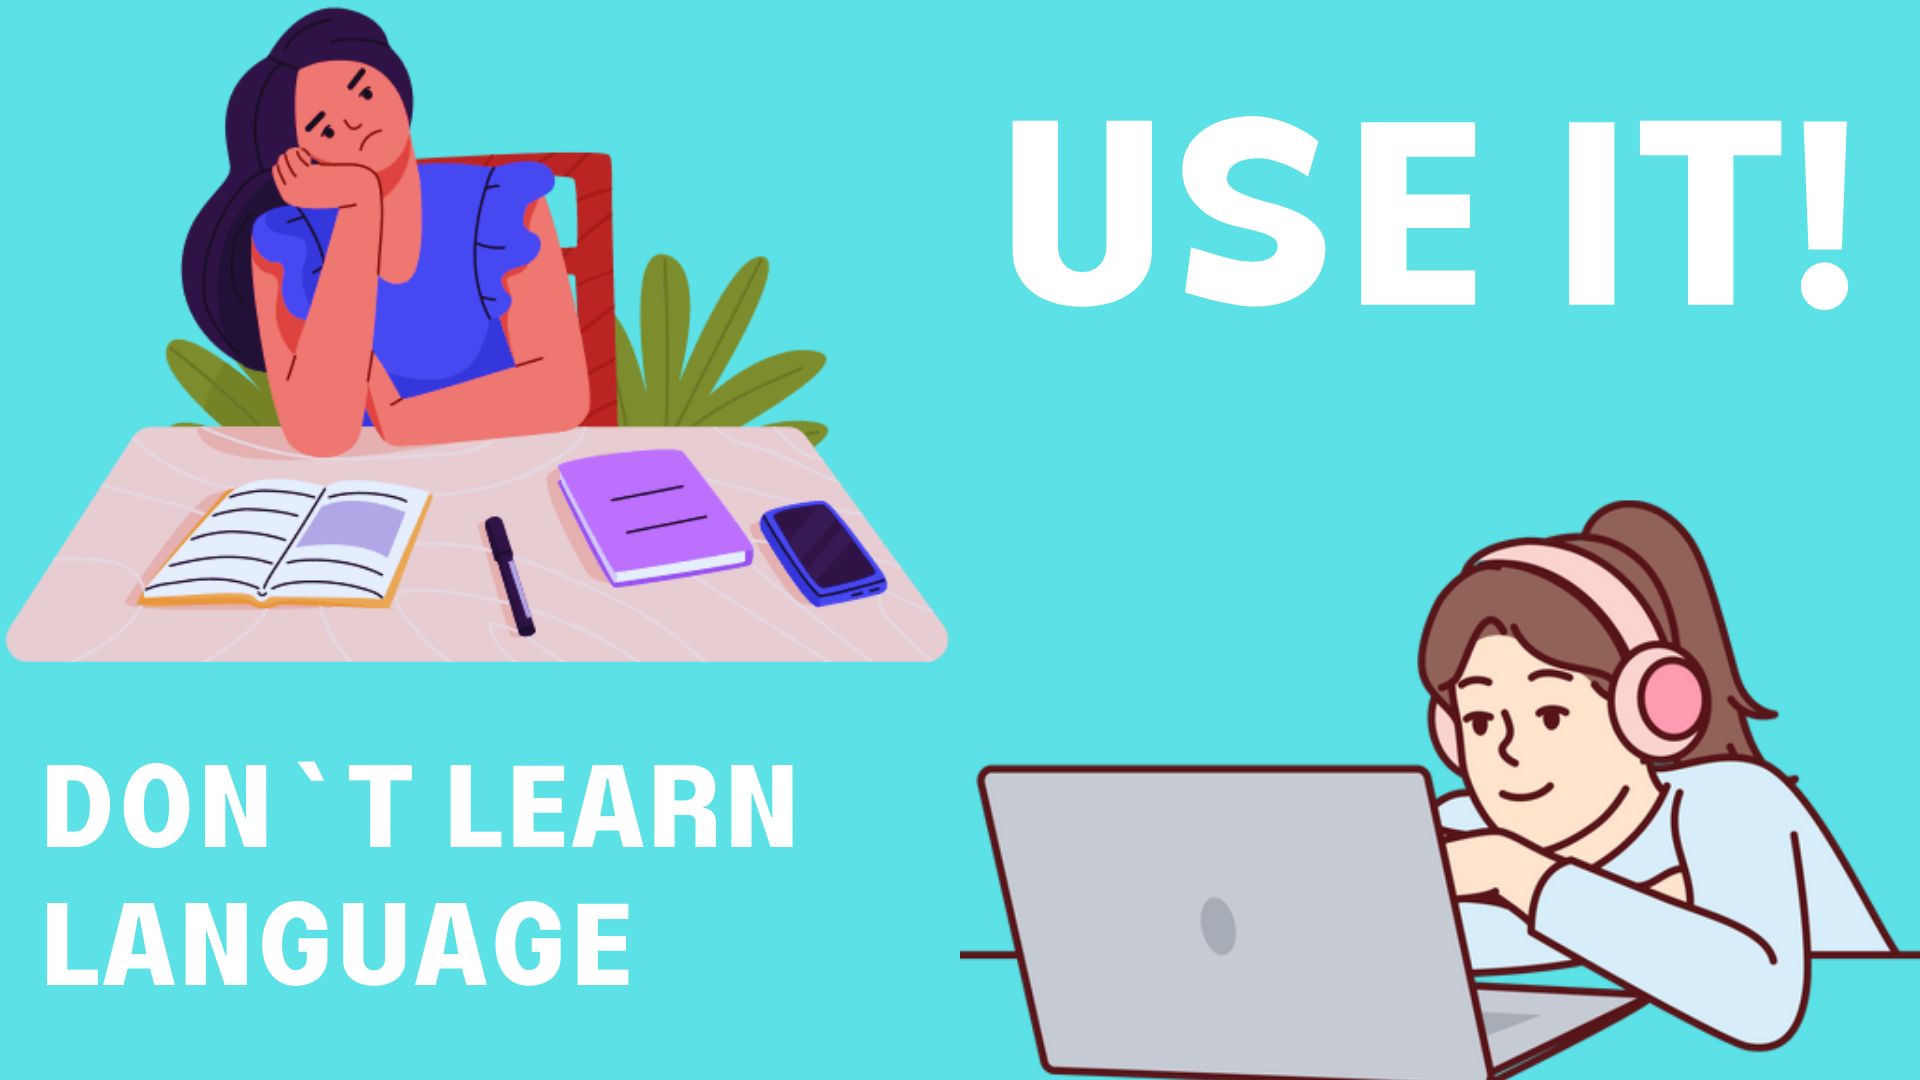
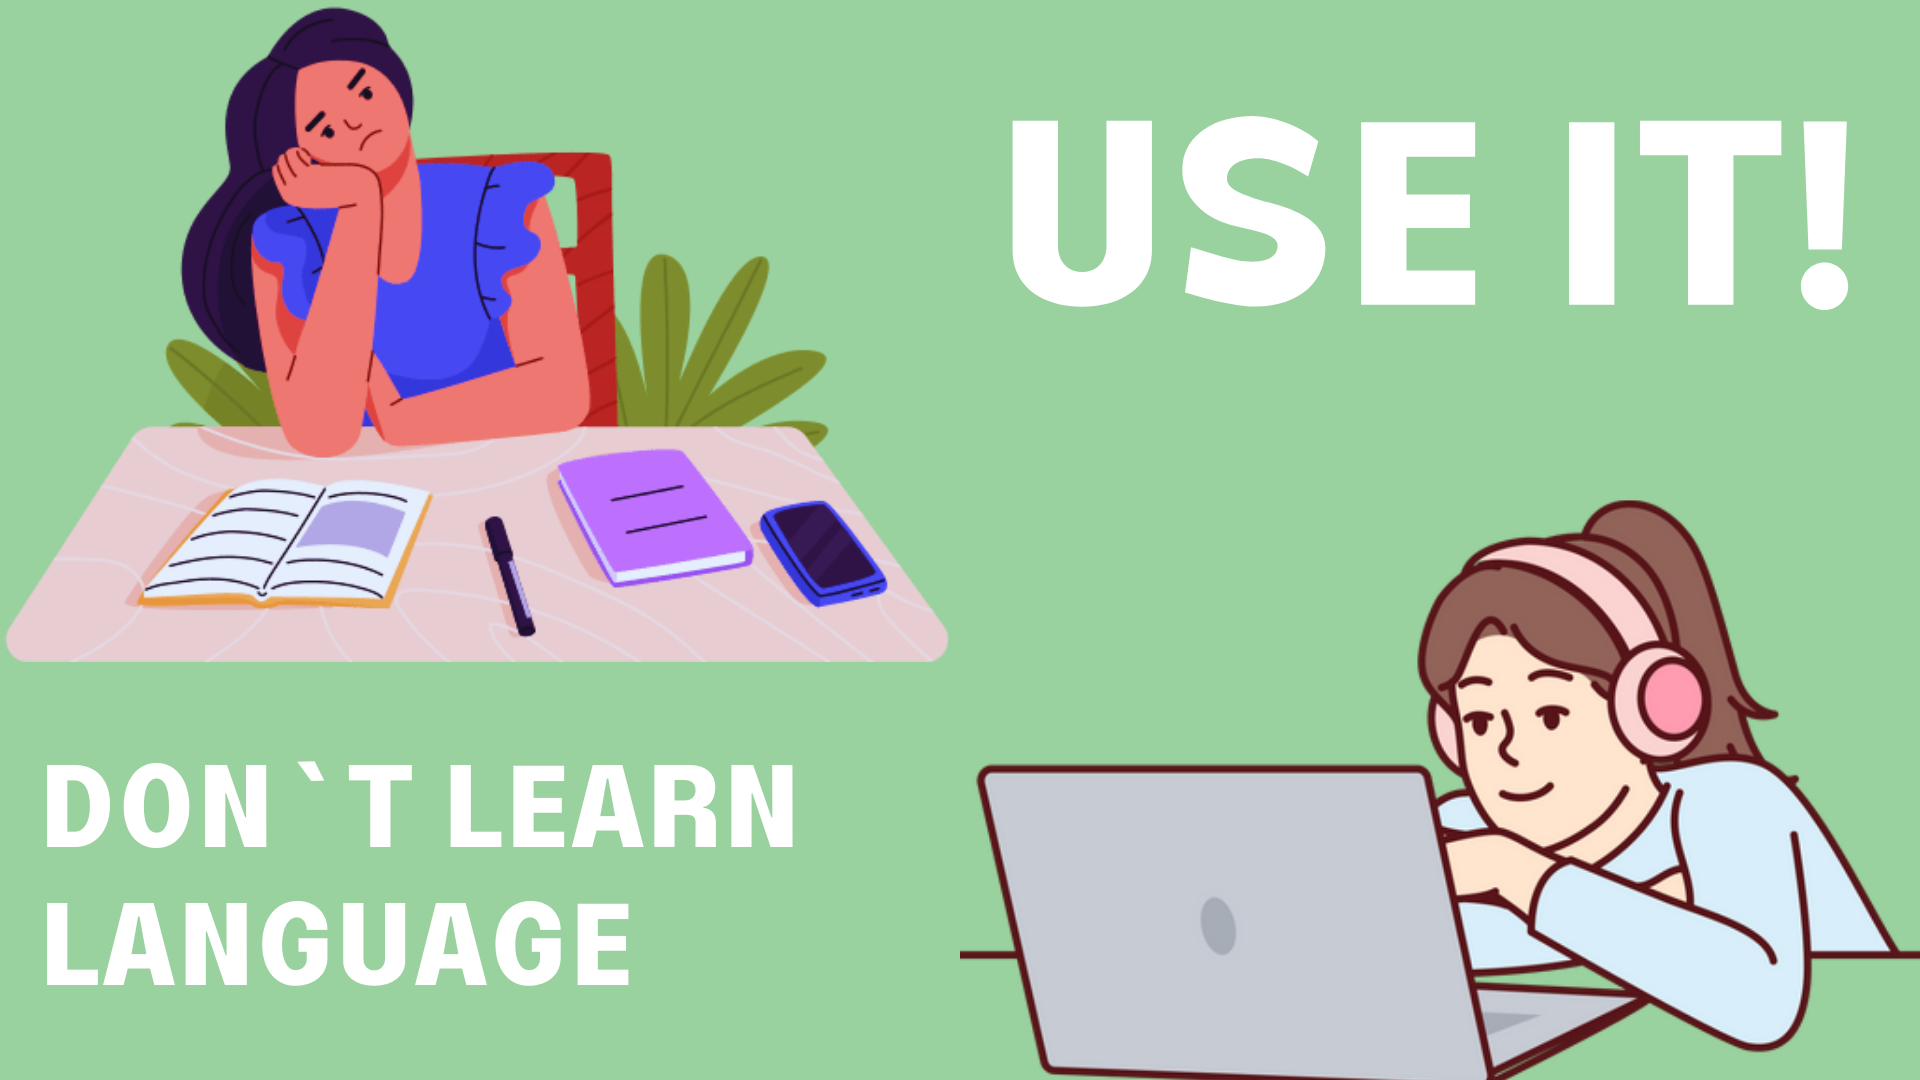
debug(tts/core.dart): fixed tts core initialization (crash when start)

diff --git a/lib/model/entities/tts/core.dart b/lib/model/entities/tts/core.dart
@@ -4,23 +4,35 @@ import 'package:flashcards_reader/util/error_handler.dart';
 import 'package:flutter_tts/flutter_tts.dart';
 
 class TextToSpeechService {
-  static final TextToSpeechService _instance = TextToSpeechService._internal();
-  factory TextToSpeechService() => _instance;
+  // static final TextToSpeechService _instance = TextToSpeechService._internal();
+  // factory TextToSpeechService() => _instance;
+  static FlutterTts flutterTts = FlutterTts();
+
+  static final completer = Completer<void>();
   TextToSpeechService._internal();
 
   static Future<bool> initTtsEngineAsync() async {
     try {
-      flutterTts.setInitHandler(() {
-        debugPrintIt('tts engine initialized');
-      });
-      await flutterTts.getEngines;
-      await flutterTts.getLanguages;
-      await flutterTts.setEngine(await flutterTts.getDefaultEngine);
+     
+      await flutterTts.awaitSpeakCompletion(true);
 
-      await flutterTts.setPitch(pitch);
-      await flutterTts.setVolume(volume);
-      await flutterTts.setSpeechRate(rate);
-      debugPrintIt(await flutterTts.getLanguages);
+      // await flutterTts.getEngines;
+      // await flutterTts.getLanguages;
+      // String? engine = await flutterTts.getDefaultEngine;
+      // if (engine != null && engine.isNotEmpty) {
+      //   await flutterTts.setEngine(engine);
+        await flutterTts.setPitch(pitch);
+        await flutterTts.setVolume(volume);
+        await flutterTts.setSpeechRate(rate);
+      // } else {
+      //   return false;
+      // }
+
+      //  flutterTts.setInitHandler(() {
+      //   debugPrintIt('tts engine initialized');
+      // });
+
+      // debugPrintIt(await flutterTts.getLanguages);
 
       return true;
     } catch (e) {
@@ -28,8 +40,6 @@ class TextToSpeechService {
       return false;
     }
   }
-
-  static FlutterTts flutterTts = FlutterTts();
 
   static Future<void> speak(String text, String language) async {
     try {
@@ -47,9 +57,12 @@ class TextToSpeechService {
       }
       await flutterTts.setLanguage(code);
 
-      await flutterTts
-          .speak(text)
-          .then((value) => debugPrintIt('ready to speak'));
+      await flutterTts.speak(text).then((value) {
+        debugPrintIt('ready to speak');
+        flutterTts.setCompletionHandler(() {
+          completer.complete();
+        });
+      });
       return;
     } catch (e) {
       await initTtsEngineAsync();

diff --git a/lib/main.dart b/lib/main.dart
@@ -12,15 +12,25 @@ import 'package:overlay_support/overlay_support.dart';
 
 import 'database/core/core.dart';
 
+void initTts() async {
+  TextToSpeechService.initTtsEngineAsync().then((value) {
+    debugPrintIt('tts engine inited: $value');
+    // if not inited, try again
+    if (!value) {
+      debugPrintIt('tts not inited, try again');
+      initTts();
+    }
+  });
+}
+
 Future<bool> initAsync() async {
   bool ioInit = await LocalManager.initAsync();
   bool dbInit = await DataBase.initAsync();
 
   BookScanner.init();
-  debugPrint('db inited: $dbInit');
+  debugPrintIt('db inited: $dbInit');
 
-  TextToSpeechService.initTtsEngineAsync()
-      .then((value) => debugPrint('tts engine inited: $value'));
+  initTts();
 
   // start checking internet connection
   debugPrintIt('start checking internet connection');

diff --git a/lib/views/config/view_config_reader.dart b/lib/views/config/view_config_reader.dart
@@ -9,6 +9,7 @@ class Palette {
   static Color green300Primary = Colors.green.shade300;
   static Color green600 = Colors.green.shade600;
   static Color green = Colors.green;
+  static Color lightGreen = const Color(0XFF9ad29f);
 
   static Color red300 = Colors.red.shade300;
 
@@ -18,7 +19,6 @@ class Palette {
   static Color descriptionIconColor = Colors.blueGrey.shade700;
 
   static Color blueAccent = Colors.blueAccent;
-  static Color lightBlue = const Color(0XFF5ce1e6);
 
   static Color grey200 = Colors.grey.shade200;
   static Color grey300 = Colors.grey.shade300;

diff --git a/lib/views/help_page/help_page.dart b/lib/views/help_page/help_page.dart
@@ -30,7 +30,7 @@ class _MyHomePageState extends ParentState<HelpPage> {
     );
     appBarHeight = appBar.preferredSize.height;
     bindPage(Scaffold(
-      backgroundColor: Palette.lightBlue,
+      backgroundColor: Palette.lightGreen,
       appBar: appBar,
       body: Center(
           child: SizedBox(
